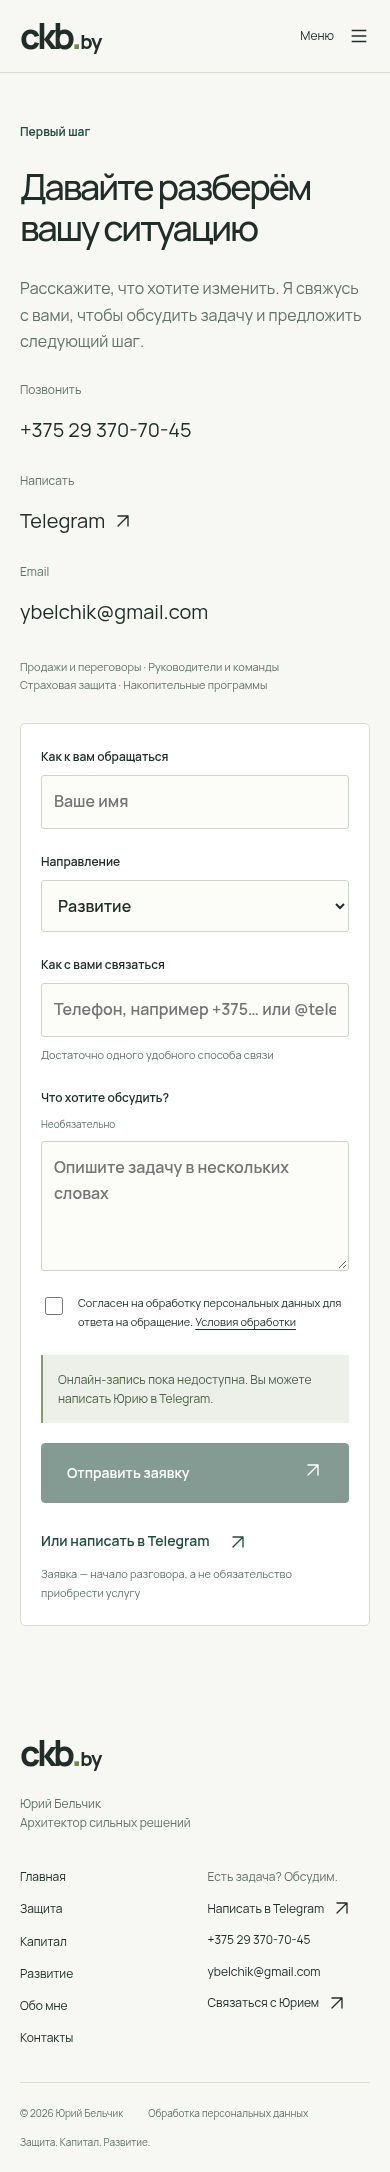
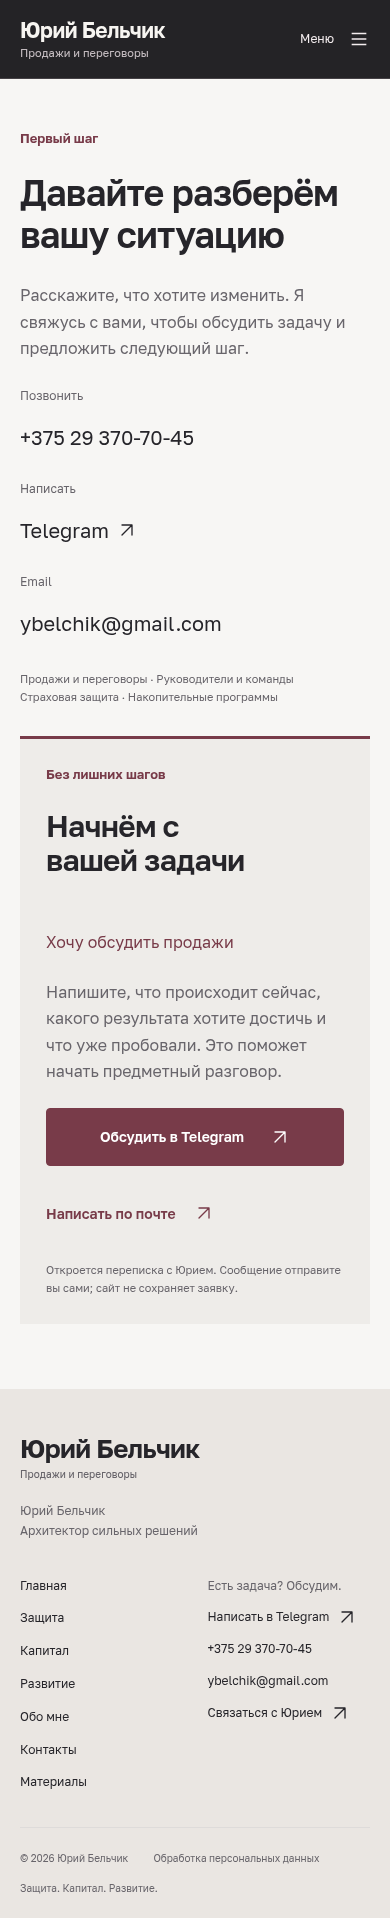
Provide direct inquiry path and preserve public WordPress content for migration

diff --git a/site/app/kontakty/page.tsx b/site/app/kontakty/page.tsx
@@ -31,6 +31,14 @@ export default async function Contacts({
       (process.env.SUPABASE_URL && process.env.SUPABASE_SECRET_KEY) ||
       (process.env.TELEGRAM_BOT_TOKEN && process.env.TELEGRAM_CHAT_ID),
     );
+  const message = task || ({
+    development: "Хочу обсудить продажи и переговоры",
+    protection: "Хочу обсудить страховую защиту",
+    capital: "Хочу обсудить накопительную программу",
+  }[direction] || "Хочу обсудить мою задачу");
+  const telegramDraft = contact.telegram
+    ? `${contact.telegram}?text=${encodeURIComponent(`Здравствуйте, Юрий! ${message}.`)}`
+    : "";
   return (
     <section className="section contact-section" id="consultation">
       <div className="container contact-layout">
@@ -78,11 +86,37 @@ export default async function Contacts({
             Страховая защита · Накопительные программы
           </p>
         </div>
-        <LeadForm
-          initialDirection={direction}
-          initialTask={task}
-          enabled={enabled}
-        />
+        {enabled ? (
+          <LeadForm
+            initialDirection={direction}
+            initialTask={task}
+            enabled
+          />
+        ) : (
+          <div className="direct-contact-panel">
+            <span className="eyebrow">Без лишних шагов</span>
+            <h2>Начнём с вашей задачи</h2>
+            <p className="large-text">{message}</p>
+            <p>
+              Напишите, что происходит сейчас, какого результата хотите достичь
+              и что уже пробовали. Это поможет начать предметный разговор.
+            </p>
+            {telegramDraft && (
+              <a className="button" href={telegramDraft} data-track="telegram_click">
+                Обсудить в Telegram <Arrow diagonal />
+              </a>
+            )}
+            {contact.email && (
+              <a className="text-link" href={`mailto:${contact.email}?subject=${encodeURIComponent(message)}`}>
+                Написать по почте <Arrow diagonal />
+              </a>
+            )}
+            <p className="field-hint">
+              Откроется переписка с Юрием. Сообщение отправите вы сами;
+              сайт не сохраняет заявку.
+            </p>
+          </div>
+        )}
       </div>
     </section>
   );

diff --git a/site/app/globals.css b/site/app/globals.css
@@ -1946,3 +1946,10 @@ h1,h2,h3{font-weight:600;letter-spacing:-.025em}body{line-height:1.65}.wordmark{
 @media(max-width:1150px){.hero-copy h1{font-size:55px}.hero-grid{gap:38px}.executive-brief-inner{gap:30px;grid-template-columns:.7fr 1.4fr 1.2fr}}
 @media(max-width:900px){.hero-copy h1{font-size:45px}.hero-subtitle{font-size:18px}.hero-description{font-size:15px}.hero-grid{gap:28px}.hero-proof{grid-template-columns:1fr 1fr}.hero-proof .text-link{grid-column:1/-1}.executive-brief-inner{grid-template-columns:1fr 1.5fr;gap:25px}.executive-brief-inner>.eyebrow{grid-column:1/-1;max-width:none}}
 @media(max-width:650px){.menu-toggle{color:#f4edef}.site-header .main-nav{background:#242326;border-color:#484146}.site-header .main-nav .mobile-consult{background:#8e4658}.hero{padding-top:22px}.hero-grid{grid-template-columns:1fr;padding-top:27px;gap:30px}.hero-copy h1{font-size:clamp(38px,10vw,50px);line-height:1.1;font-weight:500}.hero-subtitle{font-size:20px;margin-top:24px}.hero-description{font-size:16px;line-height:1.7}.hero-topline .eyebrow{max-width:175px;font-size:10px;line-height:1.7}.hero-descriptor{font-size:10px}.hero-actions .button{width:100%;justify-content:space-between}.hero-actions .text-link{font-size:14px}.hero-portrait .portrait-frame{aspect-ratio:4/4.7;max-height:none}.hero-proof{grid-template-columns:1fr;gap:23px}.hero-proof .text-link{grid-column:auto}.executive-brief{padding:45px 0}.executive-brief-inner{grid-template-columns:1fr;gap:20px}.executive-brief h2{font-size:34px}.executive-brief p{font-size:15px}.task-card{padding:25px 0}.site-header .brand-tagline{font-size:11px}}
+
+.direct-contact-panel { background: var(--soft); padding: clamp(26px, 4vw, 54px); align-self: start; display: grid; gap: 24px; border-top: 3px solid var(--primary); }
+.direct-contact-panel h2, .direct-contact-panel p { margin: 0; }
+.direct-contact-panel h2 { font-size: clamp(30px, 3vw, 42px); line-height: 1.15; }
+.direct-contact-panel .button { justify-self: start; }
+.direct-contact-panel .large-text { color: var(--primary); }
+@media (max-width: 600px) { .direct-contact-panel .button { width: 100%; } }

diff --git a/tools/export-wordpress.py b/tools/export-wordpress.py
@@ -1,0 +1,46 @@
+#!/usr/bin/env python3
+"""Export public WordPress content; never a replacement for a hosting backup."""
+import argparse
+import concurrent.futures
+import datetime
+import hashlib
+import json
+from pathlib import Path
+from urllib.parse import urlsplit
+from urllib.request import Request, urlopen
+
+parser = argparse.ArgumentParser(description=__doc__)
+parser.add_argument('--origin', default='https://ckb.by')
+parser.add_argument('--output', type=Path, required=True)
+args = parser.parse_args()
+origin = args.origin.rstrip('/')
+if urlsplit(origin).scheme != 'https':
+    parser.error('An HTTPS origin is required')
+if args.output.exists():
+    parser.error('Output already exists; choose a new directory to preserve previous exports')
+args.output.mkdir(parents=True)
+
+def request(resource, page):
+    url = f'{origin}/wp-json/wp/v2/{resource}?per_page=100&page={page}'
+    with urlopen(Request(url, headers={'User-Agent': 'CKB-content-migration/1.0'}), timeout=60) as response:
+        return json.load(response), int(response.headers['X-WP-Total']), int(response.headers['X-WP-TotalPages'])
+
+manifest = {'origin': origin, 'exported_at': datetime.datetime.now(datetime.timezone.utc).isoformat(),
+            'scope': 'Public REST content only. No database, private records, themes, plugins or media binaries.',
+            'resources': {}}
+for resource in ('posts', 'pages', 'categories', 'tags', 'media'):
+    first, total, pages = request(resource, 1)
+    rows = first
+    with concurrent.futures.ThreadPoolExecutor(max_workers=3) as pool:
+        for batch, observed_total, _ in pool.map(lambda page: request(resource, page), range(2, pages + 1)):
+            if observed_total != total:
+                raise RuntimeError(f'{resource} changed during export; rerun into a fresh directory')
+            rows.extend(batch)
+    if len(rows) != total or len({row['id'] for row in rows}) != total:
+        raise RuntimeError(f'{resource}: incomplete or duplicate results')
+    encoded = (json.dumps(rows, ensure_ascii=False, indent=2) + '\n').encode()
+    (args.output / f'{resource}.json').write_bytes(encoded)
+    manifest['resources'][resource] = {'count': total, 'bytes': len(encoded), 'sha256': hashlib.sha256(encoded).hexdigest()}
+    print(resource, total, flush=True)
+    (args.output / 'manifest.json').write_text(json.dumps(manifest, ensure_ascii=False, indent=2) + '\n')
+print(f'Export verified: {args.output}', flush=True)

diff --git a/review/validation.md b/review/validation.md
@@ -37,3 +37,6 @@
 Production build и ESLint проходят. Семь unit-тестов проходят. Браузерная проверка: восемь страниц на 1440×900, 1920×1080, 390×844 и 320×640; меню, Escape, сценарии, FAQ, ошибки API, 404, reduced-motion, шрифт и JSON-LD проходят. После остановки лишних старых серверов полный браузерный прогон повторён успешно. Первый экран проверен визуально на desktop и mobile.
 Временная Vercel-публикация обновлена; HTTPS-проверка главной, страницы развития и нового PNG вернула 200. Это временный предпросмотр, основной домен не изменён.
 GROW: цель — предметное обращение делового клиента; текущая ситуация — неясная ценность и неестественная ретушь; варианты — натуральный исходник, спокойная композиция, конкретная услуга; действие — обсуждение задачи с понятным выходом первого разговора. Конверсия пока не измерена; максимальная эффективность не доказана.
+
+## Контакты и подготовка переноса
+Production build и ESLint прошли. Полный браузерный прогон восьми страниц на четырёх размерах прошёл, включая перенос выбранной задачи в черновик Telegram и отсутствие неактивной формы при отключённом приёме. Первый прогон совпал с перестроением .next во время Vercel build и завершился 500 из-за временно отсутствовавшего manifest; после завершения сборки сервер запущен заново, повторный полный прогон прошёл. На опубликованном /kontakty подтверждены HTTP 200, выбранная задача и новый блок связи. Реальную отправку сообщения посетителем не проверяли; серверные интеграции не подключены. Публичный WordPress экспорт проверен по числу ID и SHA-256; архив открывается.

diff --git a/PROJECT.md b/PROJECT.md
@@ -69,3 +69,6 @@ Install/start instructions сохранены в черновике среды; 
 
 ## GROW-пересмотр визуальной подачи
 Пользователь повторно отклонил палитру, назвал подачу простой, попросил натуральное лицо и системную работу через GROW. Цель: вызвать интерес делового клиента; реальность: прежняя обработка искусственна и композиция шаблонна; вариант: цельный графитовый первый экран, винный акцент, светлые редакционные блоки, оригинал выступления; действие: обработать портрет заново от оригинала без омоложения и изменения черт, проверить адаптивность и опубликовать. Новый портрет yuri-belchik-natural.png генеративно обработан от исходного JPG; старые исходники сохранены. В развитии восстановлено оригинальное фото выступления. УТП первого экрана: сложные сделки требуют сильных переговоров; услуга и аудитория указаны прямо. Не обещать автоматический рост продаж.
+
+## Продолжение запуска
+На странице контактов при неподключённом серверном приёме показываются прямые способы связи вместо недоступной формы. Выбранная задача переносится в черновик Telegram; сообщение отправляет сам посетитель. Включённая и настроенная серверная форма сохраняется как следующий этап. Vercel whoami повторно сообщил Logged out; запущен новый безопасный device login. Данные оператора и ключи интеграций не получены. Публичный контент старого WordPress экспортирован с проверкой полноты (702 записи, 11 страниц, 1254 медиаописания); это не полный backup хостинга.

diff --git a/content/domain-migration.md b/content/domain-migration.md
@@ -13,3 +13,7 @@
 6. Проверить рабочие контакты, реальную заявку, индексацию и цели аналитики. Сохранить возможность отката DNS и старый хостинг до завершения проверки.
 
 Доступа к регистратору, WordPress-хостингу и их резервным копиям у агента нет. Эти действия требуют аккаунта владельца. На текущем шаге DNS и опубликованный сайт не менялись.
+
+## Публичный экспорт 20 октября 2026
+Получен и проверен публичный REST-экспорт: 702 записи с HTML-контентом, 11 страниц, 5 категорий и метаданные 1254 медиафайлов. Контрольные суммы и размеры — legacy-export-manifest.json. Данные сохранены в /workspace/ckb-wordpress-export-20261020, упакованы в /workspace/ckb-wordpress-export-20261020.tar.gz. Повторяемая команда из корня проекта: `python tools/export-wordpress.py --output /workspace/ckb-wordpress-export-NEW`. Экспорт отказывается перезаписывать существующую папку и проверяет число и уникальность ID.
+Это не полная резервная копия: отсутствуют база WordPress, приватные данные, плагины, темы и сами медиафайлы. Перед переключением домена по-прежнему нужен backup хостинга и доступный архив с сохранением URL. Экспорт вне Git необходимо скачать или перенести в постоянное хранилище.

diff --git a/content/after-launch.md b/content/after-launch.md
@@ -1,6 +1,6 @@
 # После запуска
 
-Сайт пока не опубликован; это план дальнейших действий.
+Новая версия опубликована во временном предпросмотре; постоянный хостинг и перенос основного домена ещё не завершены. Публичные контакты и фотографии добавлены. До подключения серверной формы обращения идут напрямую в Telegram, по телефону или email.
 
 1. Внести реальные фото и публичные контакты, подтвердить стаж и разрешение на обезличенные кейсы. Уточнить географию и формат работы; не публиковать выдуманные адреса.
 2. Утвердить политику обработки данных и сведения оператора. Подключить базу заявок и Telegram через защищённые настройки, затем проверить реальную доставку. До этого приём закрыт.
